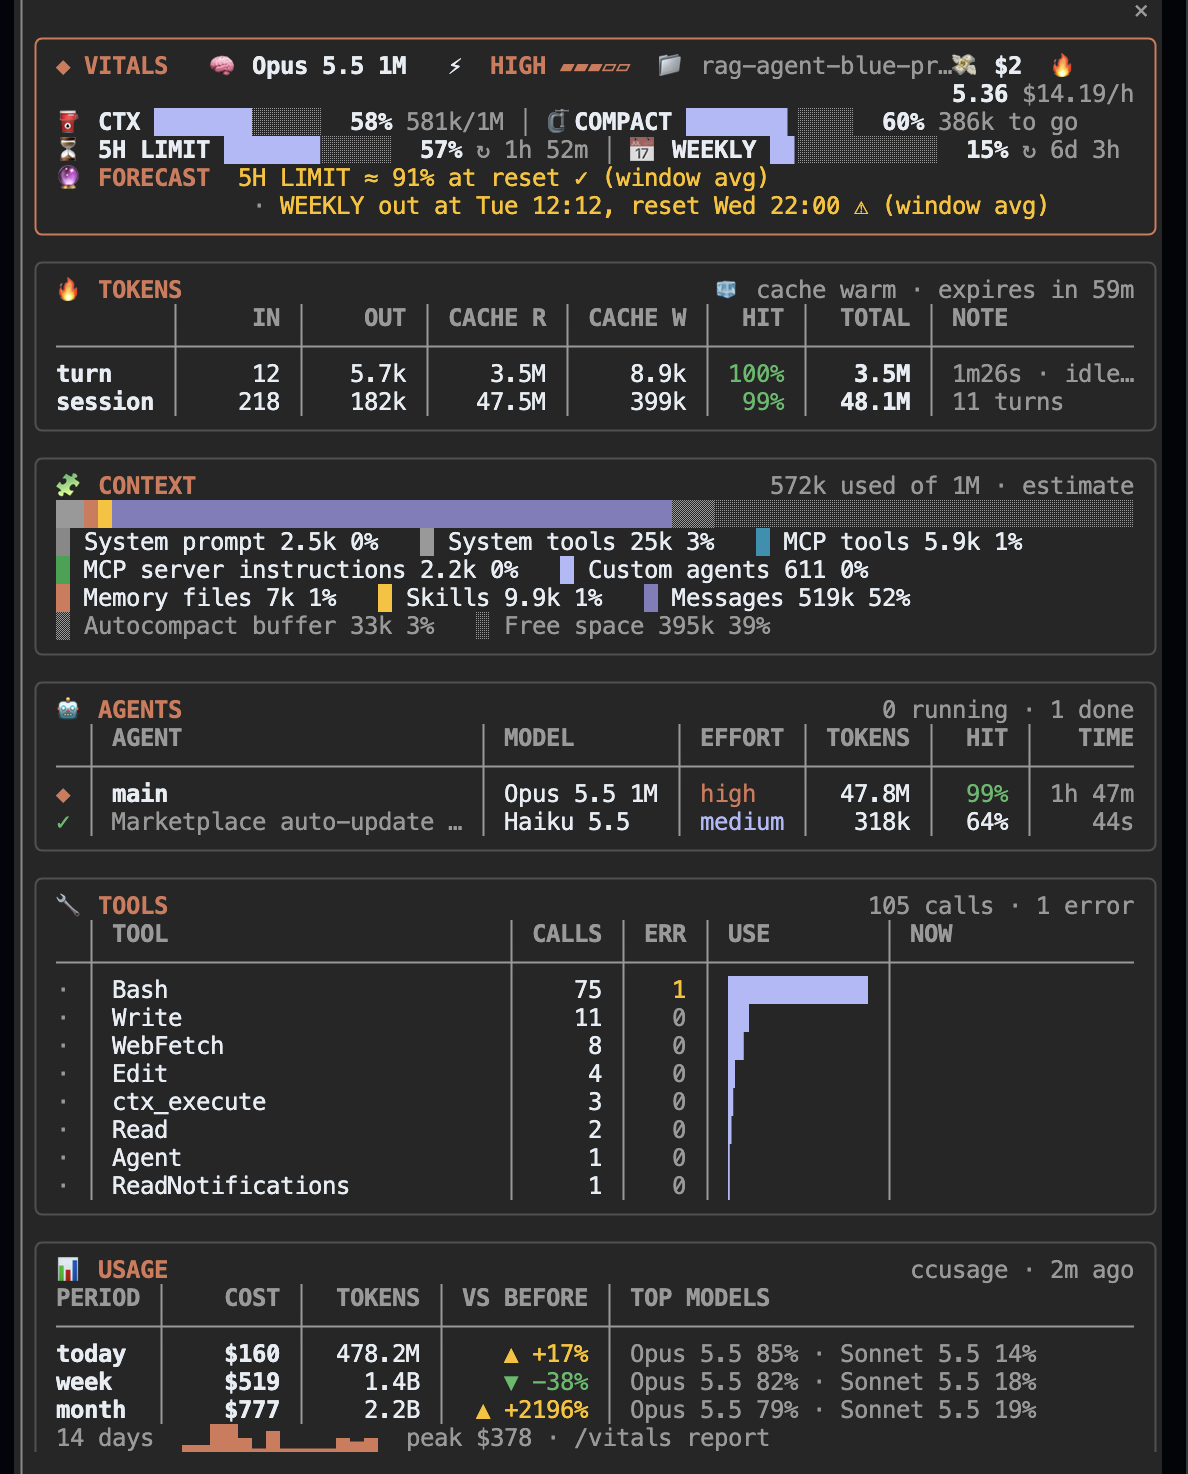
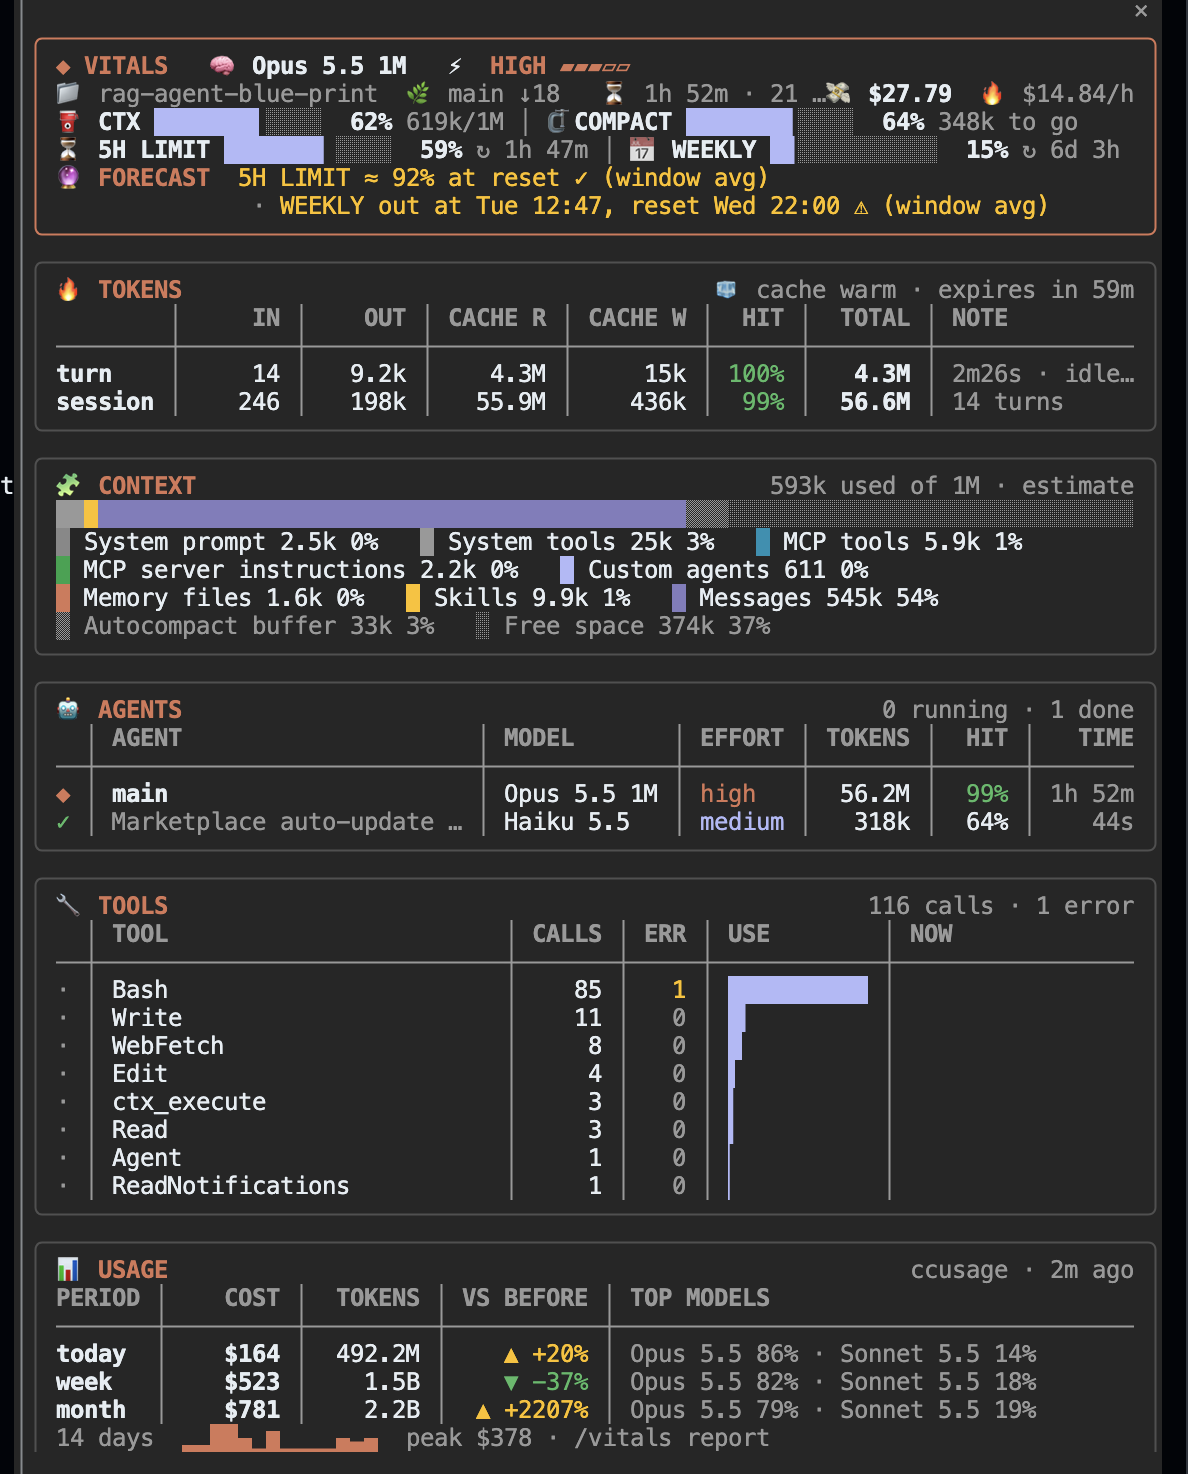
Vitals 0.7.4: spazio fisso prima del costo nell'intestazione stretta; screenshot del pannello aggiornato

diff --git a/plugins/vitals/hooks/band.tsx b/plugins/vitals/hooks/band.tsx
@@ -113,7 +113,7 @@ const vitals = (input: BandInput, room: number) => {
         <Text dimColor wrap="truncate-end">{session}</Text>
       </Box>
       {cost !== '' && (
-        <Box flexShrink={0}>
+        <Box flexShrink={0} marginLeft={1}>
           <Text bold>{cost}</Text>
         </Box>
       )}
